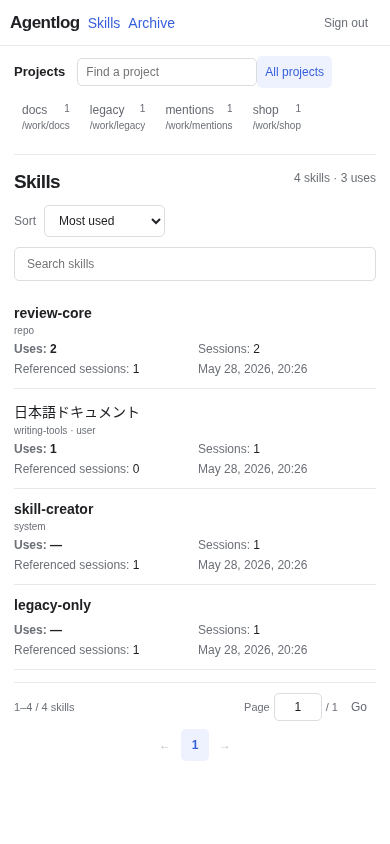
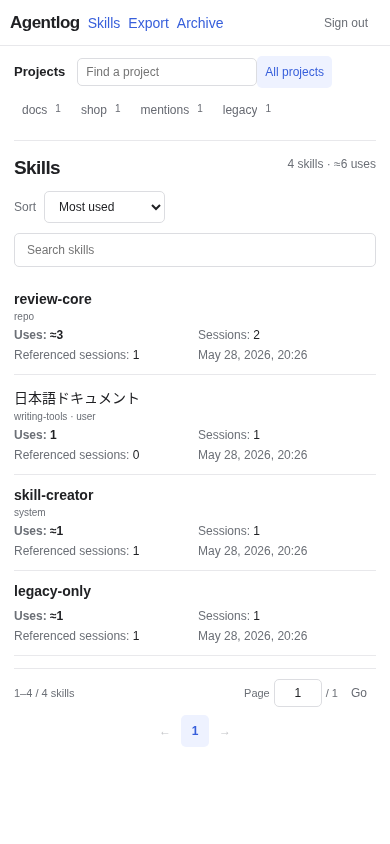
fix: スキル利用数に過去ログからの推定分を含める

diff --git a/internal/app/static/index.html b/internal/app/static/index.html
@@ -2,5 +2,5 @@
 <section id="login" hidden><form id="loginform"><h1>Agentlog</h1><label>Access token<input id="token" type="password" required autocomplete="current-password"></label><button class="primary">Sign in</button><p id="loginerror" role="alert"></p></form></section>
 <div id="workspace" hidden><header class="topbar"><a href="/" class="brand">Agentlog</a><a id="skillsnav" href="/skills">Skills</a><a href="/export">Export</a><a href="/archive" class="archive-nav">Archive</a><button id="logout">Sign out</button></header><div id="error" role="alert"></div>
 <main id="listpage"><aside id="projectsidebar" aria-label="Projects"><h2>Projects</h2><input id="projectsearch" type="search" placeholder="Find a project" aria-label="Find a project" maxlength="256"><button id="allprojects" class="project-choice">All projects</button><nav id="projectlist" aria-label="Project selection"></nav><p id="projectstatus" class="muted" role="status"></p><button id="moreprojects" hidden>Load more projects</button></aside><section class="session-results" aria-label="Sessions"><a id="foldersback" href="/" class="back" hidden>Folders</a><div class="pageheading"><h1 id="listtitle">Sessions</h1><span id="listcount" class="muted"></span><a id="projectexport" class="button" hidden>Export project</a></div><div class="toolbar"><label class="diagnostics-toggle"><input id="showdiagnostics" type="checkbox" title="Include unassigned events and Codex-generated temporary sessions">Internal Codex sessions</label><input id="search" type="search" placeholder="Search sessions" aria-label="Search sessions" maxlength="512" title="Japanese and English full-text search. Separate words with spaces; the final word also matches prefixes."></div><details id="idsearch" class="id-search"><summary>Advanced search<span id="idfilterstatus" class="muted"></span></summary><form id="idsearchform"><label>ID field<input id="identifierfield" list="identifierfields" placeholder="Any ID field" maxlength="256" autocomplete="off"></label><datalist id="identifierfields"><option value="session.id">Session ID</option><option value="event.id">Event ID</option><option value="trace.id">Trace ID</option><option value="span.id">Span ID</option><option value="parent.session.id">Parent session ID</option><option value="call.id">Call ID</option><option value="message.id">Message ID</option><option value="agent.id">Agent ID</option><option value="rpc.request_id">RPC request ID</option><option value="agentlog.import.id">Import ID</option></datalist><label>Exact ID<input id="identifiervalue" maxlength="4096" required autocomplete="off"></label><button type="submit">Search IDs</button><button id="clearidsearch" type="button">Clear</button></form></details><div id="skillfilter" hidden><span id="skillfilterlabel"></span><button id="clearskillfilter">Clear skill filter</button></div><p id="folderpath" class="folderpath" hidden></p><div id="exportcontrols" class="toolbar" hidden><span id="exportrecords" class="muted"></span><label class="skill-sort">Agent<select id="exportsource" aria-label="Export agent"><option value="">All agents</option><option value="codex">Codex</option><option value="claude">Claude Code</option><option value="copilot">Copilot</option><option value="other">Other</option></select></label><button id="downloadexport" class="primary" disabled>Download ZIP</button></div><div class="tablehead"><span id="listcolumn">Session</span><span>Agent</span><span>Last activity</span><span>Reported usage</span><span id="countcolumn">Events</span></div><div id="sessions"></div><nav id="sessionpagination" class="pagination" aria-label="Session pages" tabindex="-1"></nav></section></main>
-<main id="skillpage" hidden><section class="skill-results" aria-label="Skill usage"><div class="pageheading"><h1 id="skilltitle">Skills</h1><span id="skillcount" class="muted" title="Reported invocations; read references are counted separately"></span></div><div class="toolbar"><span id="skillindexstatus" class="muted" role="status"></span><label class="skill-sort">Sort<select id="skillsort" aria-label="Sort skills"><option value="uses">Most used</option><option value="sessions">Most sessions</option><option value="recent">Recent activity</option></select></label><input id="skillsearch" type="search" placeholder="Search skills" aria-label="Search skills" maxlength="512"></div><div class="skill-tablehead"><span>Skill</span><span title="Reported Codex invocations, deduplicated by turn">Uses</span><span>Sessions</span><span title="Sessions with a SKILL.md read reference or skill injection; not an invocation count">Referenced sessions</span><span>Last activity</span></div><div id="skillrows"></div><nav id="skillpagination" class="pagination" aria-label="Skill pages" tabindex="-1"></nav></section></main><main id="archivepage" hidden><a href="/" class="back">Sessions</a><div class="pageheading"><h1>Archive</h1><span id="archivetotal" class="muted"></span></div><p id="archivecutoff" class="muted"></p><section id="archivejob" aria-live="polite"></section><div id="archiveselection" class="toolbar"><button id="archiveclear">Clear</button><span id="archiveselected" class="muted"></span><button id="archivecreate" class="primary" disabled>Create ZIP</button></div><div id="archiveitems"></div><nav id="archivepagination" class="pagination" aria-label="Archive folder pages" tabindex="-1"></nav></main>
+<main id="skillpage" hidden><section class="skill-results" aria-label="Skill usage"><div class="pageheading"><h1 id="skilltitle">Skills</h1><span id="skillcount" class="muted" title="Reported uses plus one inferred use per session without reports; ≈ indicates an estimate"></span></div><div class="toolbar"><span id="skillindexstatus" class="muted" role="status"></span><label class="skill-sort">Sort<select id="skillsort" aria-label="Sort skills"><option value="uses">Most used</option><option value="sessions">Most sessions</option><option value="recent">Recent activity</option></select></label><input id="skillsearch" type="search" placeholder="Search skills" aria-label="Search skills" maxlength="512"></div><div class="skill-tablehead"><span>Skill</span><span title="Reported invocations plus inferred use in sessions without reports; ≈ indicates an estimate">Uses</span><span>Sessions</span><span title="Sessions with a SKILL.md read reference or skill injection; not an invocation count">Referenced sessions</span><span>Last activity</span></div><div id="skillrows"></div><nav id="skillpagination" class="pagination" aria-label="Skill pages" tabindex="-1"></nav></section></main><main id="archivepage" hidden><a href="/" class="back">Sessions</a><div class="pageheading"><h1>Archive</h1><span id="archivetotal" class="muted"></span></div><p id="archivecutoff" class="muted"></p><section id="archivejob" aria-live="polite"></section><div id="archiveselection" class="toolbar"><button id="archiveclear">Clear</button><span id="archiveselected" class="muted"></span><button id="archivecreate" class="primary" disabled>Create ZIP</button></div><div id="archiveitems"></div><nav id="archivepagination" class="pagination" aria-label="Archive folder pages" tabindex="-1"></nav></main>
 <main id="detailpage" hidden><a href="/" class="back">Sessions</a><div class="pageheading"><h1 id="sessiontitle">Session</h1><a id="export" class="button">Export JSON</a></div><div id="sessionmeta" class="metadata"></div><section id="sessionusage" aria-label="Session usage" tabindex="-1"></section><div id="sessionskills"></div><div id="relations"></div><div class="logbar"><nav aria-label="Telemetry view" class="view-switch"><button data-view="activity" class="active">Activity</button><button data-view="diagnostics">Diagnostics</button></nav><nav aria-label="Event type"><button data-kind="" class="active">All</button><button data-kind="conversation">Conversation</button><button data-kind="tool">Tools</button><button data-kind="error">Errors</button><button data-kind="metric">Metrics</button><button data-kind="skill">Skills</button></nav><select id="origin" aria-label="Event origin"><option value="">All sources</option><option value="otel">OTEL</option><option value="import">Imported</option></select></div><p id="pageinfo" class="muted"></p><div class="eventlayout"><section id="eventlist" aria-label="Session events"><div id="timeline"></div><nav id="eventpagination" class="pagination" aria-label="Event pages" tabindex="-1"></nav></section><aside id="inspector" aria-labelledby="inspectortitle" tabindex="-1" hidden><div class="inspectorheader"><div class="inspectorheading"><div><span id="inspectortime" class="muted"></span><h2 id="inspectortitle">Event details</h2></div><button id="closeinspector" aria-label="Close event details">Close</button></div><p id="inspectstatus" role="status"></p><div id="subagentactions" hidden><button id="subagentback">Event details</button><a id="subagentfull" class="button">Open session</a></div><nav class="inspectortabs" aria-label="Event details" role="tablist"><button id="detailtab" role="tab" aria-selected="true" aria-controls="inspectdetails" tabindex="0">Details</button><button id="jsontab" role="tab" aria-selected="false" aria-controls="inspectjson" tabindex="-1">JSON</button></nav></div><div class="inspectorbody"><section id="inspectagent" aria-label="Subagent logs" hidden><div id="subagentevents"></div><nav id="subagentpagination" class="pagination" aria-label="Subagent event pages" tabindex="-1"></nav></section><section id="inspectdetails" role="tabpanel" aria-labelledby="detailtab"></section><section id="inspectjson" role="tabpanel" aria-labelledby="jsontab" hidden><div class="jsonactions"><button id="copyjson">Copy JSON</button><span id="copystatus" role="status"></span></div><pre id="eventjson" tabindex="0"></pre></section></div></aside></div></main></div></body></html>

diff --git a/internal/app/static/skills.js b/internal/app/static/skills.js
@@ -9,9 +9,16 @@ function skillSessionURL(name, plugin) {
   if (project !== null) params.set("project", project);
   return "/?" + params;
 }
+function skillUsesLabel(row) {
+  return (row.inferred ? "≈" : "") + row.uses.toLocaleString();
+}
+function skillUsesTitle(row) {
+  return (row.uses - row.inferred).toLocaleString() + " reported; " +
+    row.inferred.toLocaleString() + " inferred from sessions with skill reads or injections. Repeat reads count once per session.";
+}
 function sessionSkillsHTML(rows) {
   return rows?.length
-    ? `<span class="muted">Skills</span>${rows.map((row) => `<button type="button" class="session-skill" data-skill-event="${esc(row.event)}" title="View latest skill event">${esc(row.name)} <small>${row.uses ? "×" + row.uses.toLocaleString() : "reference"}</small></button>`).join("")}<a class="skill-browse" href="/skills">Browse skills</a>`
+    ? `<span class="muted">Skills</span>${rows.map((row) => `<button type="button" class="session-skill" data-skill-event="${esc(row.event)}" title="${esc(skillUsesTitle(row))} · View latest skill event">${esc(row.name)} <small>${row.inferred ? skillUsesLabel(row) : "×" + skillUsesLabel(row)}</small></button>`).join("")}<a class="skill-browse" href="/skills">Browse skills</a>`
     : "";
 }
 function eventSkillsHTML(rows) {
@@ -44,14 +51,15 @@ async function refreshSkills(signal) {
   $("#skillcount").textContent =
     data.total.toLocaleString() +
     (data.total === 1 ? " skill · " : " skills · ") +
-    data.uses.toLocaleString() +
+    skillUsesLabel(data) +
     (data.uses === 1 ? " use" : " uses");
+  $("#skillcount").title = skillUsesTitle(data);
   $("#skillindexstatus").textContent = data.ready ? "" : "Indexing history";
   $("#skillrows").innerHTML = data.skills.length
     ? data.skills
         .map(
           (row) =>
-            `<a class="skill-row" href="${esc(skillSessionURL(row.name, row.plugin))}"><div><h2>${esc(row.name)}</h2><small>${esc([row.plugin, ...row.scopes.filter(Boolean).slice(0, 16)].filter(Boolean).join(" · "))}</small></div><span class="skill-uses">${row.uses ? row.uses.toLocaleString() : "—"}</span><span>${row.sessions.toLocaleString()}</span><span>${row.references.toLocaleString()}</span><time>${esc(date(row.last))}</time></a>`,
+            `<a class="skill-row" href="${esc(skillSessionURL(row.name, row.plugin))}"><div><h2>${esc(row.name)}</h2><small>${esc([row.plugin, ...row.scopes.filter(Boolean).slice(0, 16)].filter(Boolean).join(" · "))}</small></div><span class="skill-uses" title="${esc(skillUsesTitle(row))}">${skillUsesLabel(row)}</span><span>${row.sessions.toLocaleString()}</span><span>${row.references.toLocaleString()}</span><time>${esc(date(row.last))}</time></a>`,
         )
         .join("")
     : '<p class="empty">No skills found</p>';

diff --git a/scripts/skills_browser_test.py b/scripts/skills_browser_test.py
@@ -19,25 +19,26 @@ with tempfile.TemporaryDirectory() as folder:
   with settled_urlopen(req) as response:assert response.status==200
   with sync_playwright() as p:
    browser=p.chromium.launch(executable_path='/usr/bin/chromium',headless=True,args=['--no-sandbox']);page=browser.new_page(viewport={'width':1440,'height':1000});errors=[];page.on('pageerror',lambda e:errors.append(str(e)))
-   page.goto(base+'/skills');page.locator('#token').fill(token);page.locator('#loginform button').click();expect(page.locator('.skill-row')).to_have_count(4);expect(page.locator('#skillcount')).to_have_text('4 skills · 3 uses');expect(page.locator('.skill-row h2').first).to_have_text('review-core');expect(page.locator('#projectsidebar')).to_be_visible()
-   row=page.locator('.skill-row').filter(has=page.get_by_role('heading',name='review-core',exact=True));expect(row.locator('span').nth(0)).to_have_text('2');expect(row.locator('span').nth(1)).to_have_text('2');expect(row.locator('span').nth(2)).to_have_text('1')
-   legacy=page.locator('.skill-row').filter(has=page.get_by_role('heading',name='legacy-only',exact=True));expect(legacy.locator('span').nth(0)).to_have_text('—')
+   page.goto(base+'/skills');page.locator('#token').fill(token);page.locator('#loginform button').click();expect(page.locator('.skill-row')).to_have_count(4);expect(page.locator('#skillcount')).to_have_text('4 skills · ≈6 uses');expect(page.locator('.skill-row h2').first).to_have_text('review-core');expect(page.locator('#projectsidebar')).to_be_visible()
+   row=page.locator('.skill-row').filter(has=page.get_by_role('heading',name='review-core',exact=True));expect(row.locator('span').nth(0)).to_have_text('≈3');expect(row.locator('span').nth(1)).to_have_text('2');expect(row.locator('span').nth(2)).to_have_text('1')
+   legacy=page.locator('.skill-row').filter(has=page.get_by_role('heading',name='legacy-only',exact=True));expect(legacy.locator('span').nth(0)).to_have_text('≈1');expect(legacy.locator('.skill-uses')).to_have_attribute('title','0 reported; 1 inferred from sessions with skill reads or injections. Repeat reads count once per session.')
    if os.getenv('AGENTLOG_SCREENSHOT_DIR'):
     output=pathlib.Path(os.environ['AGENTLOG_SCREENSHOT_DIR']);output.mkdir(parents=True,exist_ok=True);page.screenshot(path=str(output/'ui-skills.png'))
-   page.locator('[data-project="path:/work/shop"]').click();expect(page.locator('.skill-row')).to_have_count(1);expect(page.locator('#skillcount')).to_have_text('1 skill · 2 uses');assert 'project=' in page.url;page.locator('.skill-row').click();expect(page.locator('.session')).to_have_count(1);assert 'project=' in page.url;page.locator('#skillsnav').click();expect(page.locator('#skillcount')).to_have_text('1 skill · 2 uses');page.reload();expect(page.locator('#skillcount')).to_have_text('1 skill · 2 uses')
-   page.locator('#allprojects').click();expect(page.locator('.skill-row')).to_have_count(4);expect(page.locator('#skillcount')).to_have_text('4 skills · 3 uses')
+   page.locator('[data-project="name:shop"]').click();expect(page.locator('.skill-row')).to_have_count(1);expect(page.locator('#skillcount')).to_have_text('1 skill · 2 uses');assert 'project=' in page.url;page.locator('.skill-row').click();expect(page.locator('.session')).to_have_count(1);assert 'project=' in page.url;page.locator('#skillsnav').click();expect(page.locator('#skillcount')).to_have_text('1 skill · 2 uses');page.reload();expect(page.locator('#skillcount')).to_have_text('1 skill · 2 uses')
+   page.locator('#allprojects').click();expect(page.locator('.skill-row')).to_have_count(4);expect(page.locator('#skillcount')).to_have_text('4 skills · ≈6 uses')
    page.locator('#skillsort').select_option('recent');expect(page.locator('.skill-row h2').first).to_have_text('日本語ドキュメント');assert 'sort=recent' in page.url;page.reload();expect(page.locator('#skillsort')).to_have_value('recent')
    page.locator('#skillsort').select_option('uses');expect(page.locator('.skill-row h2').first).to_have_text('review-core')
    page.locator('#skillsearch').fill('ﾄﾞｷｭﾒﾝﾄ');expect(page.locator('.skill-row')).to_have_count(1);expect(page.locator('.skill-row h2')).to_have_text('日本語ドキュメント');page.reload();expect(page.locator('#skillsearch')).to_have_value('ﾄﾞｷｭﾒﾝﾄ');expect(page.locator('.skill-row')).to_have_count(1)
    page.locator('#skillsearch').fill('writing-tools');expect(page.locator('.skill-row')).to_have_count(1);page.locator('#skillsearch').fill('');expect(page.locator('.skill-row')).to_have_count(4)
    page.locator('.skill-row').filter(has=page.get_by_role('heading',name='review-core',exact=True)).click();expect(page.locator('.session')).to_have_count(2);expect(page.locator('#skillfilterlabel')).to_have_text('Skill: review-core');assert '/work/mentions' not in page.locator('#sessions').inner_text()
-   page.locator('[data-project="path:/work/shop"]').click();expect(page.locator('.session')).to_have_count(1);page.locator('.session').click();expect(page.locator('#sessionskills')).to_contain_text('review-core');expect(page.locator('#sessionskills')).to_contain_text('×2');page.locator('#sessionskills .session-skill').click();expect(page.locator('#inspectstatus')).to_have_text('');expect(page.locator('#inspectortitle')).to_have_text('review-core');expect(page.locator('#inspectdetails')).to_contain_text('implicit');page.locator('#jsontab').click();expect(page.locator('#eventjson')).to_contain_text('codex.skill_invocation');page.keyboard.press('Escape');page.locator('button[data-kind="skill"]').click();expect(page.locator('#timeline .event')).to_have_count(3)
+   page.locator('[data-project="name:shop"]').click();expect(page.locator('.session')).to_have_count(1);page.locator('.session').click();expect(page.locator('#sessionskills')).to_contain_text('review-core');expect(page.locator('#sessionskills')).to_contain_text('×2');page.locator('#sessionskills .session-skill').click();expect(page.locator('#inspectstatus')).to_have_text('');expect(page.locator('#inspectortitle')).to_have_text('review-core');expect(page.locator('#inspectdetails')).to_contain_text('implicit');page.locator('#jsontab').click();expect(page.locator('#eventjson')).to_contain_text('codex.skill_invocation');page.keyboard.press('Escape');page.locator('button[data-kind="skill"]').click();expect(page.locator('#timeline .event')).to_have_count(3)
    page.locator('#origin').select_option('import');expect(page.locator('#sessionskills')).to_be_empty();page.locator('#origin').select_option('otel');expect(page.locator('#sessionskills')).to_contain_text('×2')
    page.locator('#detailpage>.back').click();expect(page.locator('#skillfilterlabel')).to_have_text('Skill: review-core');page.locator('#clearskillfilter').click();expect(page.locator('#skillfilter')).to_be_hidden();assert 'skill=' not in page.url
+   page.goto(base+'/sessions/codex%3Alegacy');expect(page.locator('#sessionskills')).to_contain_text('legacy-only ≈1');expect(page.locator('#sessionskills .session-skill').filter(has_text='legacy-only')).to_have_attribute('title','0 reported; 1 inferred from sessions with skill reads or injections. Repeat reads count once per session. · View latest skill event')
    page.goto(base+'/skills?project=path%3A%2Fwork%2Fshop');expect(page.locator('.skill-row')).to_have_count(1);saved_url=page.url
-   page.route('**/api/skills?*sort=recent*',lambda route:route.fulfill(status=500,body='synthetic failure'));page.locator('#skillsort').select_option('recent');expect(page.locator('#error')).to_contain_text('HTTP 500');expect(page.locator('#skillsort')).to_have_value('uses');expect(page.locator('[data-project="path:/work/shop"]')).to_have_attribute('aria-current','true');assert page.url==saved_url;page.unroute('**/api/skills?*sort=recent*')
+   page.route('**/api/skills?*sort=recent*',lambda route:route.fulfill(status=500,body='synthetic failure'));page.locator('#skillsort').select_option('recent');expect(page.locator('#error')).to_contain_text('HTTP 500');expect(page.locator('#skillsort')).to_have_value('uses');expect(page.locator('[data-project="name:shop"]')).to_have_attribute('aria-current','true');assert page.url==saved_url;page.unroute('**/api/skills?*sort=recent*')
    page.set_viewport_size({'width':390,'height':844});page.goto(base+'/skills');expect(page.locator('.skill-row')).to_have_count(4);assert page.evaluate('document.documentElement.scrollWidth<=innerWidth')
    if os.getenv('AGENTLOG_SCREENSHOT_DIR'):page.screenshot(path=str(output/'ui-skills-mobile.png'))
    assert not errors,errors;browser.close()
  finally:proc.terminate();proc.wait(timeout=20)
-print('PASS: skill counts/turn dedup, reference versus use, Japanese/NFKC/plugin search, exact session/folder filtering, latest event/JSON, timeline skill filter, origins, clear/back and mobile')
+print('PASS: skill counts/turn dedup, reported plus inferred use, Japanese/NFKC/plugin search, exact session/folder filtering, latest event/JSON, timeline skill filter, origins, clear/back and mobile')

diff --git a/internal/app/skills.go b/internal/app/skills.go
@@ -23,6 +23,7 @@ type SkillSummary struct {
 	Plugin     string   `json:"plugin,omitempty"`
 	Sessions   int      `json:"sessions"`
 	Uses       int      `json:"uses"`
+	Inferred   int      `json:"inferred"`
 	References int      `json:"references"`
 	Last       string   `json:"last"`
 	Scopes     []string `json:"scopes"`
@@ -30,21 +31,36 @@ type SkillSummary struct {
 }
 
 const skillReported = `CASE WHEN k.evidence='reported' AND (k.origin='otel' OR NOT EXISTS(SELECT 1 FROM skill_events native WHERE native.name=k.name AND native.plugin=k.plugin AND native.session=k.session AND native.evidence='reported' AND native.origin='otel')) THEN k.group_key END`
-const skillRollup = `SELECT k.name,k.plugin,COUNT(DISTINCT k.session) AS sessions,COUNT(DISTINCT ` + skillReported + `) AS uses,COUNT(DISTINCT CASE WHEN k.evidence='reference' THEN k.session END) AS reference_sessions,MAX(k.time) AS last,json_group_array(DISTINCT k.scope) AS scopes`
+
+// Historical reads are evidence of possible use, not invocation counts. Prefer
+// reported invocations when available; otherwise estimate one use per session
+// regardless of rereads or imported/native copies.
+func skillRollup(origin string) string {
+	reported := skillReported
+	reportedSession := `SELECT 1 FROM skill_events reported WHERE reported.name=k.name AND reported.plugin=k.plugin AND reported.session=k.session AND reported.evidence='reported'`
+	if origin != "" {
+		reported = "CASE WHEN k.evidence='reported' THEN k.group_key END"
+		reportedSession += " AND reported.origin=k.origin"
+	}
+	inferred := `COUNT(DISTINCT CASE WHEN k.evidence='reference' AND NOT EXISTS(` + reportedSession + `) THEN k.session END)`
+	return `SELECT k.name,k.plugin,COUNT(DISTINCT k.session) AS sessions,COUNT(DISTINCT ` + reported + `)+` + inferred + ` AS uses,` + inferred + ` AS inferred,COUNT(DISTINCT CASE WHEN k.evidence='reference' THEN k.session END) AS reference_sessions,MAX(k.time) AS last,json_group_array(DISTINCT k.scope) AS scopes`
+}
+
+type skillUsageTotals struct{ Uses, Inferred int }
 
 func scanSkills(rows *sql.Rows) ([]SkillSummary, error) {
 	return scanSkillRows(rows, nil)
 }
 
-func scanSkillRows(rows *sql.Rows, totalUses *int) ([]SkillSummary, error) {
+func scanSkillRows(rows *sql.Rows, totals *skillUsageTotals) ([]SkillSummary, error) {
 	defer rows.Close()
 	out := []SkillSummary{}
 	for rows.Next() {
 		var s SkillSummary
 		var scopes string
-		args := []any{&s.Name, &s.Plugin, &s.Sessions, &s.Uses, &s.References, &s.Last, &scopes}
-		if totalUses != nil {
-			args = append(args, totalUses)
+		args := []any{&s.Name, &s.Plugin, &s.Sessions, &s.Uses, &s.Inferred, &s.References, &s.Last, &scopes}
+		if totals != nil {
+			args = append(args, &totals.Uses, &totals.Inferred)
 		}
 		if err := rows.Scan(args...); err != nil {
 			return nil, err
@@ -105,11 +121,11 @@ func (a *App) skills(w http.ResponseWriter, r *http.Request) {
 	params := append(append([]any{}, args...), off)
 	// Window aggregation covers every matching skill before LIMIT, so the
 	// displayed total remains correct on later pages and under project/search filters.
-	rows, err := tx.QueryContext(r.Context(), "WITH totals AS ("+skillRollup+grouped+") SELECT name,plugin,sessions,uses,reference_sessions,last,scopes,SUM(uses) OVER() FROM totals ORDER BY "+order+" LIMIT 200 OFFSET ?", params...)
+	rows, err := tx.QueryContext(r.Context(), "WITH totals AS ("+skillRollup("")+grouped+") SELECT name,plugin,sessions,uses,inferred,reference_sessions,last,scopes,SUM(uses) OVER(),SUM(inferred) OVER() FROM totals ORDER BY "+order+" LIMIT 200 OFFSET ?", params...)
 	var out []SkillSummary
-	var uses int
+	var totals skillUsageTotals
 	if err == nil {
-		out, err = scanSkillRows(rows, &uses)
+		out, err = scanSkillRows(rows, &totals)
 	}
 	var ready bool
 	if err == nil {
@@ -122,7 +138,7 @@ func (a *App) skills(w http.ResponseWriter, r *http.Request) {
 		databaseError(w, r, err)
 		return
 	}
-	write(w, map[string]any{"skills": out, "total": total, "uses": uses, "sort": sort, "offset": off, "ready": ready})
+	write(w, map[string]any{"skills": out, "total": total, "uses": totals.Uses, "inferred": totals.Inferred, "sort": sort, "offset": off, "ready": ready})
 }
 func sessionSkills(ctx context.Context, tx *sql.Tx, session, origin string) ([]SkillSummary, error) {
 	from := ` FROM skill_events k WHERE k.session=?`
@@ -131,10 +147,7 @@ func sessionSkills(ctx context.Context, tx *sql.Tx, session, origin string) ([]S
 		from += " AND k.origin=?"
 		args = append(args, origin)
 	}
-	rollup := skillRollup
-	if origin != "" {
-		rollup = strings.Replace(rollup, skillReported, "CASE WHEN k.evidence='reported' THEN k.group_key END", 1)
-	}
+	rollup := skillRollup(origin)
 	rows, err := tx.QueryContext(ctx, rollup+from+" GROUP BY k.name,k.plugin ORDER BY MAX(k.time) DESC,k.name,k.plugin", args...)
 	if err != nil {
 		return nil, err

diff --git a/internal/app/skill_catalog_test.go b/internal/app/skill_catalog_test.go
@@ -8,11 +8,12 @@ import (
 )
 
 type skillCatalogPage struct {
-	Skills []SkillSummary `json:"skills"`
-	Total  int            `json:"total"`
-	Uses   int            `json:"uses"`
-	Offset int            `json:"offset"`
-	Sort   string         `json:"sort"`
+	Skills   []SkillSummary `json:"skills"`
+	Total    int            `json:"total"`
+	Uses     int            `json:"uses"`
+	Inferred int            `json:"inferred"`
+	Offset   int            `json:"offset"`
+	Sort     string         `json:"sort"`
 }
 
 func TestSkillUsageCatalogProjectScopeAndOrdering(t *testing.T) {
@@ -37,19 +38,19 @@ func TestSkillUsageCatalogProjectScopeAndOrdering(t *testing.T) {
 	save(t, a, rows...)
 	var p skillCatalogPage
 	getJSON(t, a, "/api/skills", &p)
-	if p.Total != 4 || p.Uses != 8 || p.Sort != "uses" || p.Skills[0].Name != "review" || p.Skills[0].Uses != 4 || p.Skills[0].Sessions != 3 {
+	if p.Total != 4 || p.Uses != 10 || p.Inferred != 2 || p.Sort != "uses" || p.Skills[0].Name != "review" || p.Skills[0].Uses != 4 || p.Skills[0].Sessions != 3 {
 		t.Fatal(p)
 	}
 	getJSON(t, a, "/api/skills?project=name:A", &p)
-	if p.Total != 3 || p.Uses != 6 || p.Skills[0].Name != "review" || p.Skills[0].Uses != 3 || p.Skills[0].Sessions != 2 {
+	if p.Total != 3 || p.Uses != 7 || p.Inferred != 1 || p.Skills[0].Name != "review" || p.Skills[0].Uses != 3 || p.Skills[0].Sessions != 2 {
 		t.Fatal(p)
 	}
 	getJSON(t, a, "/api/skills?sort=recent", &p)
-	if p.Sort != "recent" || p.Skills[0].Name != "newest" || p.Uses != 8 {
+	if p.Sort != "recent" || p.Skills[0].Name != "newest" || p.Uses != 10 || p.Inferred != 2 {
 		t.Fatal(p)
 	}
 	getJSON(t, a, "/api/skills?sort=sessions", &p)
-	if p.Skills[0].Name != "review" || p.Skills[1].Name != "history" || p.Uses != 8 {
+	if p.Skills[0].Name != "review" || p.Skills[1].Name != "history" || p.Uses != 10 || p.Inferred != 2 {
 		t.Fatal(p)
 	}
 	getJSON(t, a, "/api/skills?q="+url.QueryEscape("ＲＥＶＩＥＷ"), &p)
@@ -61,7 +62,7 @@ func TestSkillUsageCatalogProjectScopeAndOrdering(t *testing.T) {
 		t.Fatal("path match from another project", p)
 	}
 	getJSON(t, a, "/api/skills?project=name:B&q=only-B", &p)
-	if p.Total != 1 || p.Uses != 0 || p.Skills[0].References != 1 {
+	if p.Total != 1 || p.Uses != 1 || p.Inferred != 1 || p.Skills[0].References != 1 {
 		t.Fatal(p)
 	}
 	// Archive-locked sessions contribute neither reported usage nor search metadata.
@@ -85,7 +86,11 @@ func TestSkillUsageTotalCoversAllPages(t *testing.T) {
 	a := setup(t)
 	rows := []Event{}
 	for i := 0; i < 205; i++ {
-		rows = append(rows, skillReport(t, fmt.Sprint(i), "otel", "session", fmt.Sprintf("skill-%03d", i), "one", ""))
+		if i%2 == 0 {
+			rows = append(rows, recorded(t, fmt.Sprint(i), "import", "codex", "session", "gen_ai.tool.start", map[string]any{"tool_name": "Read", "arguments": fmt.Sprintf(`{"file_path":"/work/skills/skill-%03d/SKILL.md"}`, i)}))
+		} else {
+			rows = append(rows, skillReport(t, fmt.Sprint(i), "otel", "session", fmt.Sprintf("skill-%03d", i), "one", ""))
+		}
 	}
 	save(t, a, rows...)
 	for _, offset := range []int{0, 200, 9999} {
@@ -95,7 +100,7 @@ func TestSkillUsageTotalCoversAllPages(t *testing.T) {
 		if offset > 0 {
 			want = 5
 		}
-		if p.Total != 205 || p.Uses != 205 || len(p.Skills) != want {
+		if p.Total != 205 || p.Uses != 205 || p.Inferred != 103 || len(p.Skills) != want {
 			t.Fatal(offset, p)
 		}
 	}

diff --git a/internal/app/skill_inferred_test.go b/internal/app/skill_inferred_test.go
@@ -1,0 +1,57 @@
+package app
+
+import (
+	"fmt"
+	"net/url"
+	"testing"
+)
+
+func TestSkillHistoricalUsesAreEstimatesWithoutDoubleCounting(t *testing.T) {
+	a := setup(t)
+	read := func(id, origin, session string) Event {
+		return recorded(t, id, origin, "codex", session, "gen_ai.tool.start", map[string]any{"tool_name": "Read", "call_id": id, "arguments": `{"file_path":"/work/skills/writing/SKILL.md"}`, "service.namespace": "docs"})
+	}
+	events := []Event{}
+	for i := 0; i < 145; i++ {
+		events = append(events, read(fmt.Sprintf("read-%d", i), "import", fmt.Sprintf("session-%d", i)))
+	}
+	// A reread and a native copy do not establish additional invocations.
+	events = append(events, read("reread", "import", "session-0"), read("native-read", "otel", "session-0"))
+	// A structured injection of the same skill is also a reference, not a second use.
+	events = append(events, recorded(t, "injection", "import", "codex", "session-0", "gen_ai.user.message", map[string]any{"service.namespace": "docs", "prompt": "<skill><name>writing</name><path>/work/skills/writing/SKILL.md</path></skill>"}))
+	save(t, a, events...)
+	check := func(want, inferred int) {
+		t.Helper()
+		for _, query := range []string{"", "?project=name:docs", "?q=" + url.QueryEscape("/work/skills")} {
+			var p skillCatalogPage
+			getJSON(t, a, "/api/skills"+query, &p)
+			if p.Total != 1 || p.Uses != want || p.Inferred != inferred || p.Skills[0].Sessions != 145 || p.Skills[0].References != 145 || p.Skills[0].Inferred != inferred {
+				t.Fatalf("%s: %+v", query, p)
+			}
+		}
+	}
+	check(145, 145)
+	save(t, a, skillReport(t, "report-1", "otel", "session-0", "writing", "one", ""), skillReport(t, "retry", "otel", "session-0", "writing", "one", ""), skillReport(t, "report-2", "otel", "session-0", "writing", "two", ""), skillReport(t, "imported-report", "import", "session-0", "writing", "one", ""))
+	// 144 reference-only sessions + 2 reported turns, not 145 + 2 or number of reads.
+	check(146, 144)
+	for _, origin := range []string{"", "otel", "import"} {
+		p := page(t, a, "codex:session-0", origin, 0)
+		want := 2
+		if origin == "import" {
+			want = 1
+		}
+		if len(p.Skills) != 1 || p.Skills[0].Uses != want || p.Skills[0].Inferred != 0 {
+			t.Fatal(origin, p.Skills)
+		}
+	}
+	// Reclassification on deletion uses current evidence, without a stale cache.
+	if _, err := a.DB.Exec("DELETE FROM events WHERE id IN('report-1','retry','report-2','import:imported-report')"); err != nil {
+		t.Fatal(err)
+	}
+	save(t, a)
+	check(145, 145)
+	p := page(t, a, "codex:session-0", "", 0)
+	if len(p.Skills) != 1 || p.Skills[0].Uses != 1 || p.Skills[0].Inferred != 1 {
+		t.Fatal(p.Skills)
+	}
+}

diff --git a/docs/skills.md b/docs/skills.md
@@ -1,13 +1,14 @@
 # Codex skills
 
-Open **Skills** for usage totals across sessions, ordered by **Most used**. The project sidebar switches between all projects and one project; search names, plugins, scopes or referenced paths within that selection. **Most sessions** and **Recent activity** offer alternate orders. The header shows the matching skill count and total reported uses across all pages.
+Open **Skills** for usage totals across sessions, ordered by **Most used**. The project sidebar switches between all projects and one project; search names, plugins, scopes or referenced paths within that selection. **Most sessions** and **Recent activity** offer alternate orders. The header shows the matching skill count and total uses across all pages.
 
 Click a row to open matching sessions in the selected project. Session headers retain their skill chips and event inspector. The timeline's **Skills** filter includes reported uses and indexed references, with filtering before pagination.
 
 ![Skill usage and references](ui-skills.png)
 
-- **Reported uses** counts Codex's `codex.skill_invocation` events (`skill.name`, `skill.plugin_id`, `skill.scope`, `skill.invocation_type`, `turn.id`). Reports for the same skill/plugin/session/turn count once. Without a turn ID, individual event identities are retained. OTEL reports take precedence over imported reports for the same session/skill/plugin; explicit origin views use that origin alone.
-- **Referenced sessions** counts sessions with a direct `SKILL.md` read reference or a structured `<skill>` injection. A reference does not establish an invocation or successful execution. Reference-only skills show **—** for reported uses.
+- **Uses** combines reported invocations with historical evidence. **≈** marks an estimate: for each session/skill/plugin without invocation reports, a read or structured skill injection contributes one inferred use. Repeat reads and import/OTEL copies in that session do not increase it. Hover over a count for the reported/inferred breakdown.
+- **Reported invocations** counts Codex's `codex.skill_invocation` events (`skill.name`, `skill.plugin_id`, `skill.scope`, `skill.invocation_type`, `turn.id`). Reports for the same skill/plugin/session/turn count once. Without a turn ID, individual event identities are retained. OTEL reports take precedence over imported reports for the same session/skill/plugin; explicit origin views use that origin alone.
+- **Referenced sessions** counts sessions with a direct `SKILL.md` read reference or a structured `<skill>` injection. A reference does not establish an invocation or successful execution. A reference-only session contributes one inferred use, regardless of the number of reads.
 - **Sessions** counts the union of both kinds of evidence. Equal names in different plugins stay separate. Plain mentions, available-skill lists, file writes and in-place edits do not count as read references.
 
 Historical references support structured Read/read_file calls and direct cat/head/tail/sed reads, including quoted paths. Shell control flow, substitutions and redirections are excluded. Stored event content stays unchanged; this is conservative evidence recovery, not an exact historical invocation count.
